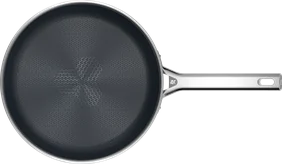
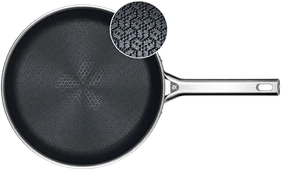
Update SearProtect comparison image with surface detail

diff --git a/wmf/pans/frying-pans.html b/wmf/pans/frying-pans.html
@@ -118,7 +118,7 @@
                 <a class="product__button" href="#" data-i18n>Shop Now</a>
               </article>
               <article class="product product--dark">
-                <img class="pan-photo" src="assets/compare/resist-pro-plus.webp" srcset="assets/compare/resist-pro-plus.webp 1x, assets/compare/resist-pro-plus@2x.webp 2x" width="141" height="82" alt="WMF Resist Pro+ frying pan">
+                <img class="pan-photo" src="assets/compare/resist-pro-plus.webp?v=20261026" srcset="assets/compare/resist-pro-plus.webp?v=20261026 1x, assets/compare/resist-pro-plus@2x.webp?v=20261026 2x" width="141" height="85" alt="WMF Resist Pro+ frying pan with SearProtect surface detail">
                 <h4 class="product__name">Resist Pro+</h4>
                 <a class="product__button" href="#" data-i18n>Shop Now</a>
               </article>

diff --git a/wmf/pans/product.html b/wmf/pans/product.html
@@ -81,7 +81,7 @@
                 <a class="product__button" href="#" data-i18n>Shop Now</a>
               </article>
               <article class="product product--dark">
-                <img class="pan-photo" src="assets/compare/resist-pro-plus.webp" srcset="assets/compare/resist-pro-plus.webp 1x, assets/compare/resist-pro-plus@2x.webp 2x" width="141" height="82" alt="WMF Resist Pro+ frying pan">
+                <img class="pan-photo" src="assets/compare/resist-pro-plus.webp?v=20261026" srcset="assets/compare/resist-pro-plus.webp?v=20261026 1x, assets/compare/resist-pro-plus@2x.webp?v=20261026 2x" width="141" height="85" alt="WMF Resist Pro+ frying pan with SearProtect surface detail">
                 <h4 class="product__name">Resist Pro+</h4>
                 <a class="product__button" href="#" data-i18n>Shop Now</a>
               </article>

diff --git a/wmf/pans-range-comparison.html b/wmf/pans-range-comparison.html
@@ -439,7 +439,7 @@
           </article>
 
           <article class="product product--dark">
-            <img class="pan-photo" src="pans/assets/compare/resist-pro-plus.webp" srcset="pans/assets/compare/resist-pro-plus.webp 1x, pans/assets/compare/resist-pro-plus@2x.webp 2x" width="141" height="82" alt="WMF Resist Pro+ frying pan">
+            <img class="pan-photo" src="pans/assets/compare/resist-pro-plus.webp?v=20261026" srcset="pans/assets/compare/resist-pro-plus.webp?v=20261026 1x, pans/assets/compare/resist-pro-plus@2x.webp?v=20261026 2x" width="141" height="85" alt="WMF Resist Pro+ frying pan with SearProtect surface detail">
             <h3 class="product__name">Resist Pro+</h3>
             <a class="product__button" href="#">Shop Now</a>
           </article>

diff --git a/wmf/pans/assets/compare/resist-pro-plus-source.md b/wmf/pans/assets/compare/resist-pro-plus-source.md
@@ -1,0 +1,12 @@
+# Resist Pro+ / SearProtect comparison image
+
+Updated 26 October 2026 from the supplied `26-1523_WMF_Anpassung_Teaserbilder_Pans6.jpg`.
+The built-in image tool produced a transparent cutout for the dark comparison panel.
+The circular surface-detail inset is included. The cutout was trimmed to its visible
+bounds and exported at 141 × 85 and 282 × 170 pixels as WebP. A 564 × 340 PNG is
+retained in `resist-pro-plus-source.png`. Figma uses a 282 × 170 indexed PNG export
+of the same cutout in both comparison component variants.
+
+## Image tool prompt
+
+Use case: background-extraction. Edit target: the supplied WMF SearProtect frying pan photograph with circular magnified surface-detail inset. Remove ONLY the pure white surrounding background, including the small white hole inside the handle, to actual alpha transparency for placing on a dark comparison table. Keep the exact top-down pan, handle pointing right, stainless steel highlights, WMF logo, fine hexagonal cooking-surface grid and central marks. Preserve the exact circular magnification inset at the top-right of the pan with its thin white outline and exact texture. Do not redesign, re-render, retouch, rotate, relight, or alter any product pixels or proportions. Keep the complete pan and inset visible with minimal transparent padding, no new shadows, no added text, no extra elements. Output a faithful clean transparent cutout.
